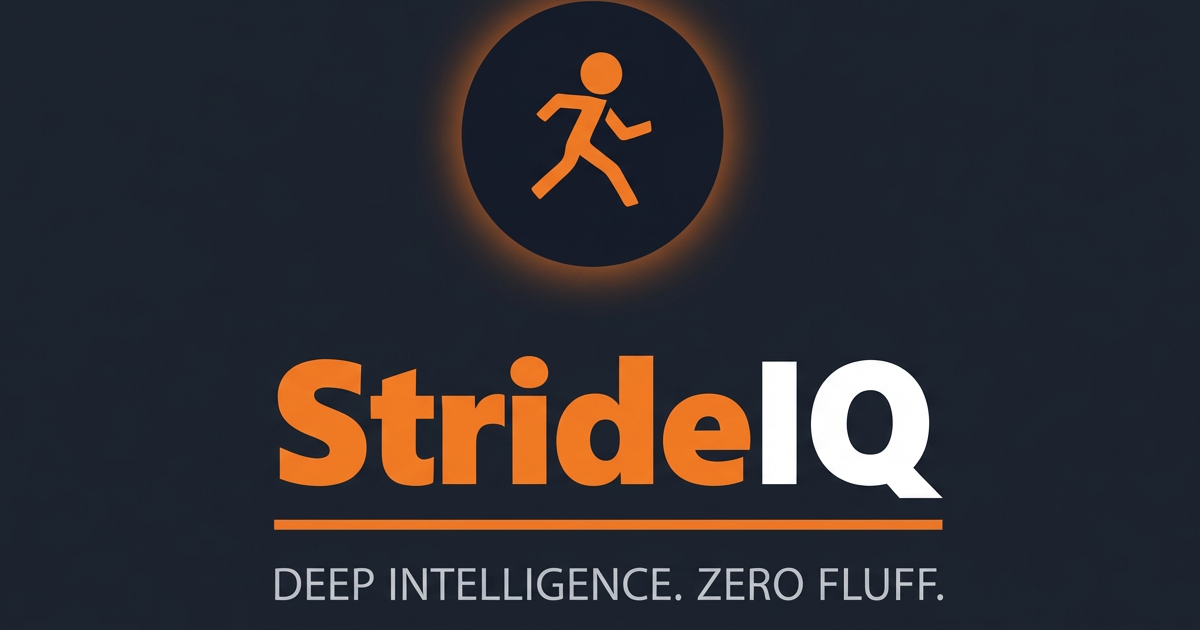
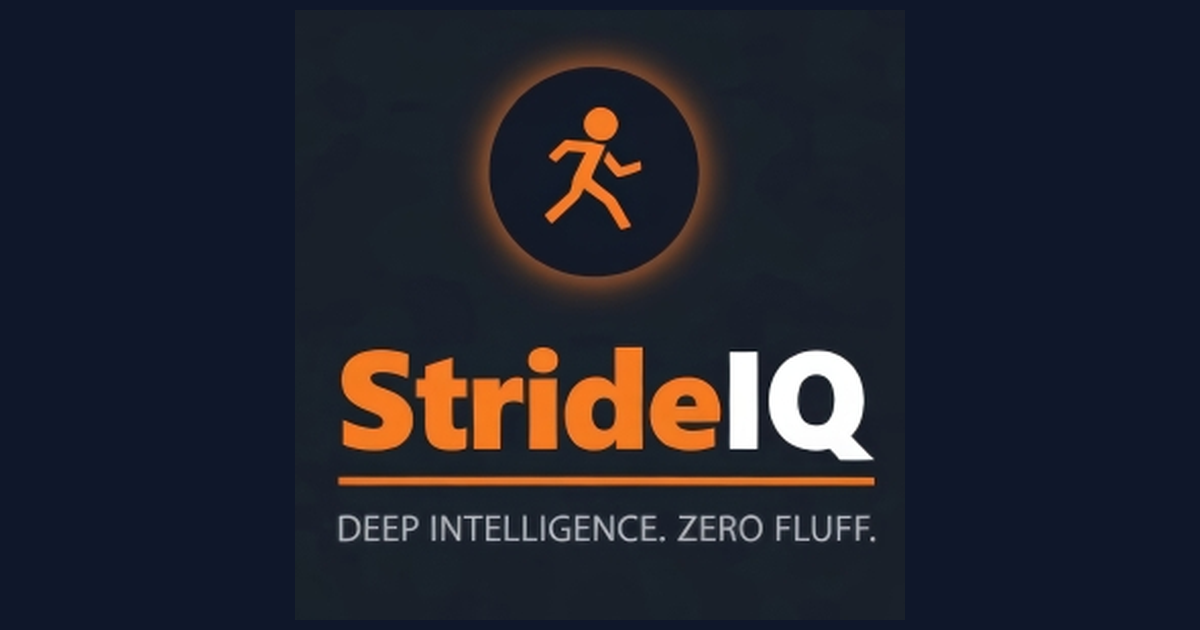
fix(seo): apply approved lockup-b OG asset and bump to v6

diff --git a/apps/web/app/page.tsx b/apps/web/app/page.tsx
@@ -12,7 +12,7 @@ import { JsonLd } from '@/components/seo/JsonLd';
 
 const LANDING_META_DESCRIPTION =
   'Your body has a voice. StrideIQ is AI running intelligence that turns your data into decisions — training paces, trend signals, and coaching that adapts to you.'
-const OG_IMAGE_URL = '/og-image.png?v=5'
+const OG_IMAGE_URL = '/og-image.png?v=6'
 
 const organizationJsonLd = {
   '@context': 'https://schema.org',

diff --git a/apps/web/app/layout.tsx b/apps/web/app/layout.tsx
@@ -14,7 +14,7 @@ import './globals.css'
 
 const META_DESCRIPTION =
   'Your body has a voice. StrideIQ is AI running intelligence that turns your data into decisions — training paces, trend signals, and coaching that adapts to you.'
-const OG_IMAGE_URL = '/og-image.png?v=5'
+const OG_IMAGE_URL = '/og-image.png?v=6'
 
 export const metadata: Metadata = {
   title: {
